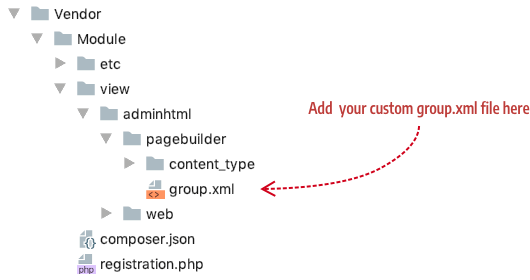
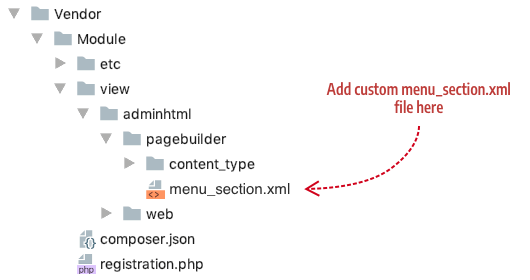
MC-5810: Improve naming of the critical variables/parameters in the code and configuration
- Updated references to group to menu section in documentation
- Updated documentation images

Changed region(s): [[0.5736, 0.2857, 1.0, 0.4286], [0.3019, 0.4857, 0.7849, 0.7143]]

diff --git a/docs/configurations/content-type-configuration.md b/docs/configurations/content-type-configuration.md
@@ -5,12 +5,12 @@
 
 <!-- {% raw %} -->
 
-Use the content type and group configuration to add new content types, extend existing content types, add groups in the left menu, or rearrange content types in the groups.
+Use the content type and menu section configuration to add new content types, extend existing content types, add menu_sections in the left menu, or rearrange content types in the menu sections.
 
 | Element             | Description                                                                                                                                 |
 | ------------------- | ------------------------------------------------------------------------------------------------------------------------------------------- |
-| `group`             | Describes the group name, translated field, and sort order in the menu.      |
-| `type`              | Describes the content type name, translated field, and sort order in the menu group. Each type should have its own configuration file.      |
+| `menu_section`             | Describes the menu section name, translated field, and sort order in the menu.      |
+| `type`              | Describes the content type name, translated field, and sort order in the menu section. Each type should have its own configuration file.      |
 | `parents`           | List of parent content types that can accept this type as a child.                                                                          |
 | `children`          | List of children content types that can accept this type as a parent.                                                                       |
 | `appearances`       | Appearance configuration.                                                                                                                   |
@@ -26,18 +26,18 @@ Use the content type and group configuration to add new content types, extend ex
 | `preview_component` | Helper component that contains preview specific logic. Helper component is optional.                                                        |
 | `master_component`  | Contains master format rendering logic that is generic for all appearances. Content component is optional.                                  |
 | `form`              | UI component form used for editing the content type.                                                                                         |
-| `group`             | Existing menu group that contains this content type.                                                                                        |
+| `menu_section`             | Existing menu menu section that contains this content type.                                                                                        |
 {:style="table-layout:auto"}
 
 ### Examples
 
-#### `group`
+#### `menu_section`
 
-The following is an example of a group configuration in `view/adminhtml/pagebuilder/group.xml`:
+The following is an example of a menu section configuration in `view/adminhtml/pagebuilder/menu_section.xml`:
 
 ``` xml
-<!-- Definition of main menu, used for grouping content types  -->
-    <group name="media" translate="label" sortOrder="10" label="Media"/>
+<!-- Definition of main menu, used for menu sectioning content types  -->
+    <menu_section name="media" translate="label" sortOrder="10" label="Media"/>
 ```
 
 #### Content type
@@ -51,7 +51,7 @@ The following is an example of a content type configuration in `view/adminhtml/p
       component="Magento_PageBuilder/js/content-type"
       preview_component="Magento_PageBuilder/js/content-type/banner/preview"
       form="pagebuilder_banner_form"
-      group="media"
+      menu_section="media"
       icon="icon-pagebuilder-image"
       sortOrder="1"
       translate="label">
@@ -155,7 +155,7 @@ The following is an example of a content type configuration in `view/adminhtml/p
 | `preview_component` | Helper component that contains preview specific logic. Helper component is optional.                                                        |
 | `master_component`  | Contains master format rendering logic that is generic for all appearances. Content component is optional.                                  |
 | `form`              | UI component form used for editing the content type                                                                                         |
-| `group`             | Existing menu group that contains this content type.                                                                                        |
+| `menu_section`      | Existing menu section that contains this content type.                                                                                      |
 {:style="table-layout:auto"}
 
 ### `form`

diff --git a/docs/create-basic-content-type/step-1-add-configuration.md b/docs/create-basic-content-type/step-1-add-configuration.md
@@ -29,7 +29,7 @@ The following configuration is from the Quote content type. An overview of these
 <config xmlns:xsi="http://www.w3.org/2001/XMLSchema-instance" xsi:noNamespaceSchemaLocation="urn:magento:module:Magento_PageBuilder:etc/content_type.xsd">
     <type name="example_quote"
         label="Quote"
-        group="elements"
+        menu_section="elements"
         component="Magento_PageBuilder/js/content-type"
         preview_component="Example_PageBuilderQuote/js/content-type/example-quote/preview"
         master_component="Magento_PageBuilder/js/content-type/master"
@@ -62,13 +62,13 @@ The `type` element defines the key properties of your content type. The attribut
 | ------------------- | ------------------------------------------------------------ |
 | `name`              | Name of the content type that Magento uses for XML merging. The convention for using multi-word names is to separate the words with hyphens. |
 | `label`             | Label displayed in the Page Builder panel, option menu, and on the Admin stage. |
-| `group`             | Group or category in the panel menu where your content type is displayed. The default groups are Layout, Elements, Media, and Add Content. See [Panel configurations](../configurations/panel-configurations.md) for more details. |
+| `menu_section`      | Menu section or category in the panel menu where your content type is displayed. The default menu sections are Layout, Elements, Media, and Add Content. See [Panel configurations](../configurations/panel-configurations.md) for more details. |
 | `component`         | There are two component types to choose from: `content-type` and `content-type-collection`. Use `Magento_PageBuilder/js/content-type` for static content types that do not have children. Use `Magento_PageBuilder/js/content-type-collection` for content types that can contain children, otherwise known as container content types. |
 | `preview_component` | Optional. JavaScript file (`preview.js`) that provides rendering logic within the Admin UI. The preview component does not need to specify the `.js` extension. If you don't provide the `preview_component`, Page Builder uses the base `Preview` component shown in the code: `Magento_PageBuilder/js/content-type/preview`. |
 | `master_component`  | Optional. JavaScript file (`master.js`) that provides rendering logic generic for all appearances of your content type when rendered on the storefront. The master component does not need to specify the `.js` extension. If you don't provide the `master_component`, Page Builder uses the base `Master` component shown in the code: `Magento_PageBuilder/js/content-type/master`. |
 | `form`              | UI component form that provides the form controls for editing your content type. |
 | `icon`              | Optional. Class name for your PNG or SVG image (or font icon) displayed in the Page Builder panel alongside the label. If you don't provide an icon value, the Page Builder panel displays the content type name without an icon. |
-| `sortOrder`         | Optional. The listed order within the menu group. For example, `sortOrder=21` puts the content type third in the `Elements` menu group, after the content types with `sortOrder` values of 10 and 20. |
+| `sortOrder`         | Optional. The listed order within the menu section. For example, `sortOrder=21` puts the content type third in the `Elements` menu section, after the content types with `sortOrder` values of 10 and 20. |
 | `translate`         | Identifies the attribute you want Magento to translate. Here, the `label` value is set for translation. |
 
 ## The  `children` element

diff --git a/docs/how-to/how-to-develop-container-content-type.md b/docs/how-to/how-to-develop-container-content-type.md
@@ -34,7 +34,7 @@ Write the following content into this configuration file:
           preview_component="VendorName_CustomContainer/js/content-type/custom-container-group/preview"
           master_component="Magento_PageBuilder/js/content-type/master-collection"
           form="pagebuilder_custom_container_group_form"
-          group="general"
+          menu_section="general"
           icon="icon-pagebuilder-row"
           sortOrder="1"
           translate="label">
@@ -141,7 +141,7 @@ Write the following content into this configuration file:
           preview_component="VendorName_CustomContainer/js/content-type/custom-container/preview"
           master_component="Magento_PageBuilder/js/content-type/master-collection"
           form="pagebuilder_custom_container_form"
-          group="general"
+          menu_section="general"
           icon="icon-pagebuilder-row"
           sortOrder="1"
           translate="label">

diff --git a/docs/how-to/how-to-add-custom-toolbar.md b/docs/how-to/how-to-add-custom-toolbar.md
@@ -56,7 +56,7 @@ Option property descriptions:
 
 | Element             | Description                                                                        |
 | ------------------- | ---------------------------------------------------------------------------------- |
-| `key`               | Describes the group name in the menu (comparable to a CSS property, `text_align`). |
+| `key`               | Describes the menu section name in the menu (comparable to a CSS property, `text_align`). |
 | `type`              | Describes the element type (comparable to the HTML `input` type).                  |
 | `values`            | Array of values for each option.                                                   |
 | `value`             | Value referenced in the dataStore (comparable to a CSS property value).            |

diff --git a/docs/how-to/how-to-use-image-uploader.md b/docs/how-to/how-to-use-image-uploader.md
@@ -17,7 +17,7 @@ Use `additional_data` in your `<YourModule>/view/base/pagebuilder/content_type/<
 
 ``` xml
 <config xmlns:xsi="http://www.w3.org/2001/XMLSchema-instance" xsi:noNamespaceSchemaLocation="urn:magento:module:Magento_PageBuilder:etc/content_type.xsd">
-    <type name="MyName" translate="label" label="MyName" icon="icon-modulename-simple" component="Vendor_ModuleName/js/content-type" form="modulename_simple_form" group="layout">
+    <type name="MyName" translate="label" label="MyName" icon="icon-modulename-simple" component="Vendor_ModuleName/js/content-type" form="modulename_simple_form" menu_section="layout">
         ...
         <additional_data>
             <item name="uploaderConfig" xsi:type="array">

diff --git a/docs/create-basic-content-type/step-6-add-icon.md b/docs/create-basic-content-type/step-6-add-icon.md
@@ -63,7 +63,7 @@ The last step is to add our icon's class name to our config file. Previous to th
 <config xmlns:xsi="http://www.w3.org/2001/XMLSchema-instance" xsi:noNamespaceSchemaLocation="urn:magento:module:Magento_PageBuilder:etc/content_type.xsd">
     <type name="example_quote"
         label="Quote"
-        group="elements"
+        menu_section="elements"
         component="Magento_PageBuilder/js/content-type"
         preview_component="Example_PageBuilderQuote/js/content-type/example-quote/preview"
         master_component="Magento_PageBuilder/js/content-type/master"
